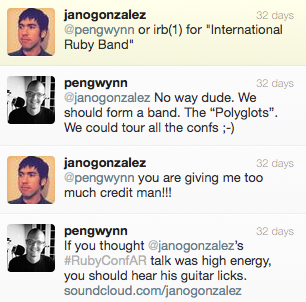
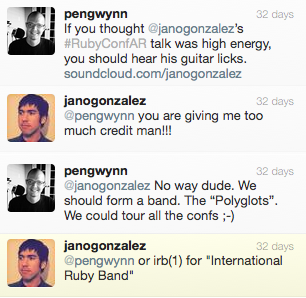
Adds the origin of this idea

diff --git a/index.html b/index.html
@@ -98,6 +98,33 @@
         </p>
       </div>
 
+      <hr class="featurette-divider">
+
+      <div class="featurette">
+        <h2 class="featurette-heading">Origin. <span class="muted">Know why.</span></h2>
+        <p class="lead">
+          I've seen a lot of complains about discrimination in the wide sense of
+          the word. Discrimination it's the weapon of the weak minded.
+          But instead of making the gap bigger and bigger, instead of making
+          rules on how to live I just want to make the issues fade away. Instead
+          of protecting with fear, let's protect with fun.
+        </p>
+
+        <p class="lead">
+          Then in RubyConfArgentina 2012 I have the luck to share good times
+          with amazing people around music and fun. And then after spending
+          hours talking about a Ruby Band I feel I needed to do something... but
+          what?.
+        </p>
+
+        <img src="img/irb-source.png" alt="" />
+
+        <p class="lead">
+          Thank you <a href="http://twitter.com/janogonzalez">jano</a> and <a
+            href="http://twitter.com/pengwynn">pengwynn.</a>
+        </p>
+      </div>
+
       <!-- /END THE FEATURETTES -->
       <hr class="featurette-divider">
       <footer>
